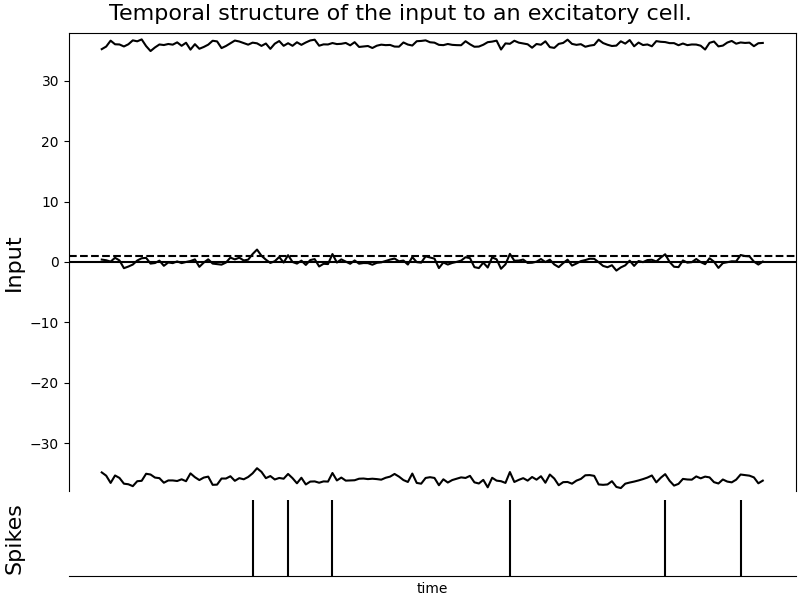
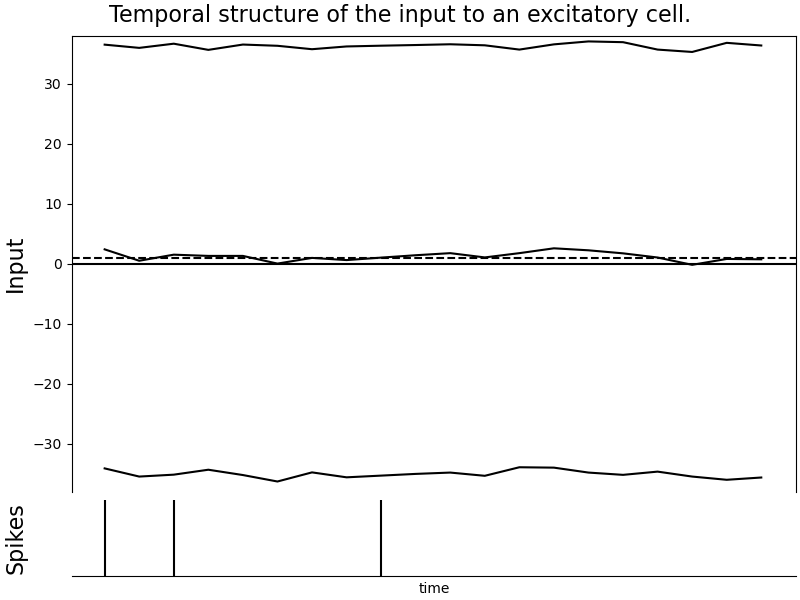
little fixes

diff --git a/net_model/net_wrapper.py b/net_model/net_wrapper.py
@@ -11,10 +11,10 @@ os.system('sh compile.sh')
 
 def simulate(K):
     print(f'K={K}')
-    N_E=20000
-    N_I=8000
+    N_E=K*4
+    N_I=K*2
     N=N_E+N_I
-    T = 150
+    T = 20
     c_double_p = ctypes.POINTER(ctypes.c_double)
     f = ctypes.CDLL(dir_path+'/library.so').simulate
     f.argtypes = [ctypes.c_int, ctypes.c_int, ctypes.c_int, ctypes.c_int, c_double_p, c_double_p]
@@ -119,8 +119,8 @@ def simulate(K):
 
 me_k = []
 mi_k = []
-Ks = [100,200,400,600,800,1000,2000,4000,6000]
-#Ks = [100]
+#Ks = [100,200,400,600,800,1000,2000,4000,6000]
+Ks = [10000]
 
 me_k, mi_k, exp_e, exp_i = zip(*Parallel(n_jobs=-1)(delayed(simulate)(K) for K in Ks))
 

diff --git a/net_model/net_model.cpp b/net_model/net_model.cpp
@@ -39,9 +39,9 @@ double H(double x) {
 class Cell {
 
     public:
-    bool active;
-    vector<int> pre;
-    int i,k; 
+        bool active;
+        vector<int> pre;
+        int i,k; 
 
     Cell(double act, double i2, double k2) {
         active = act;
